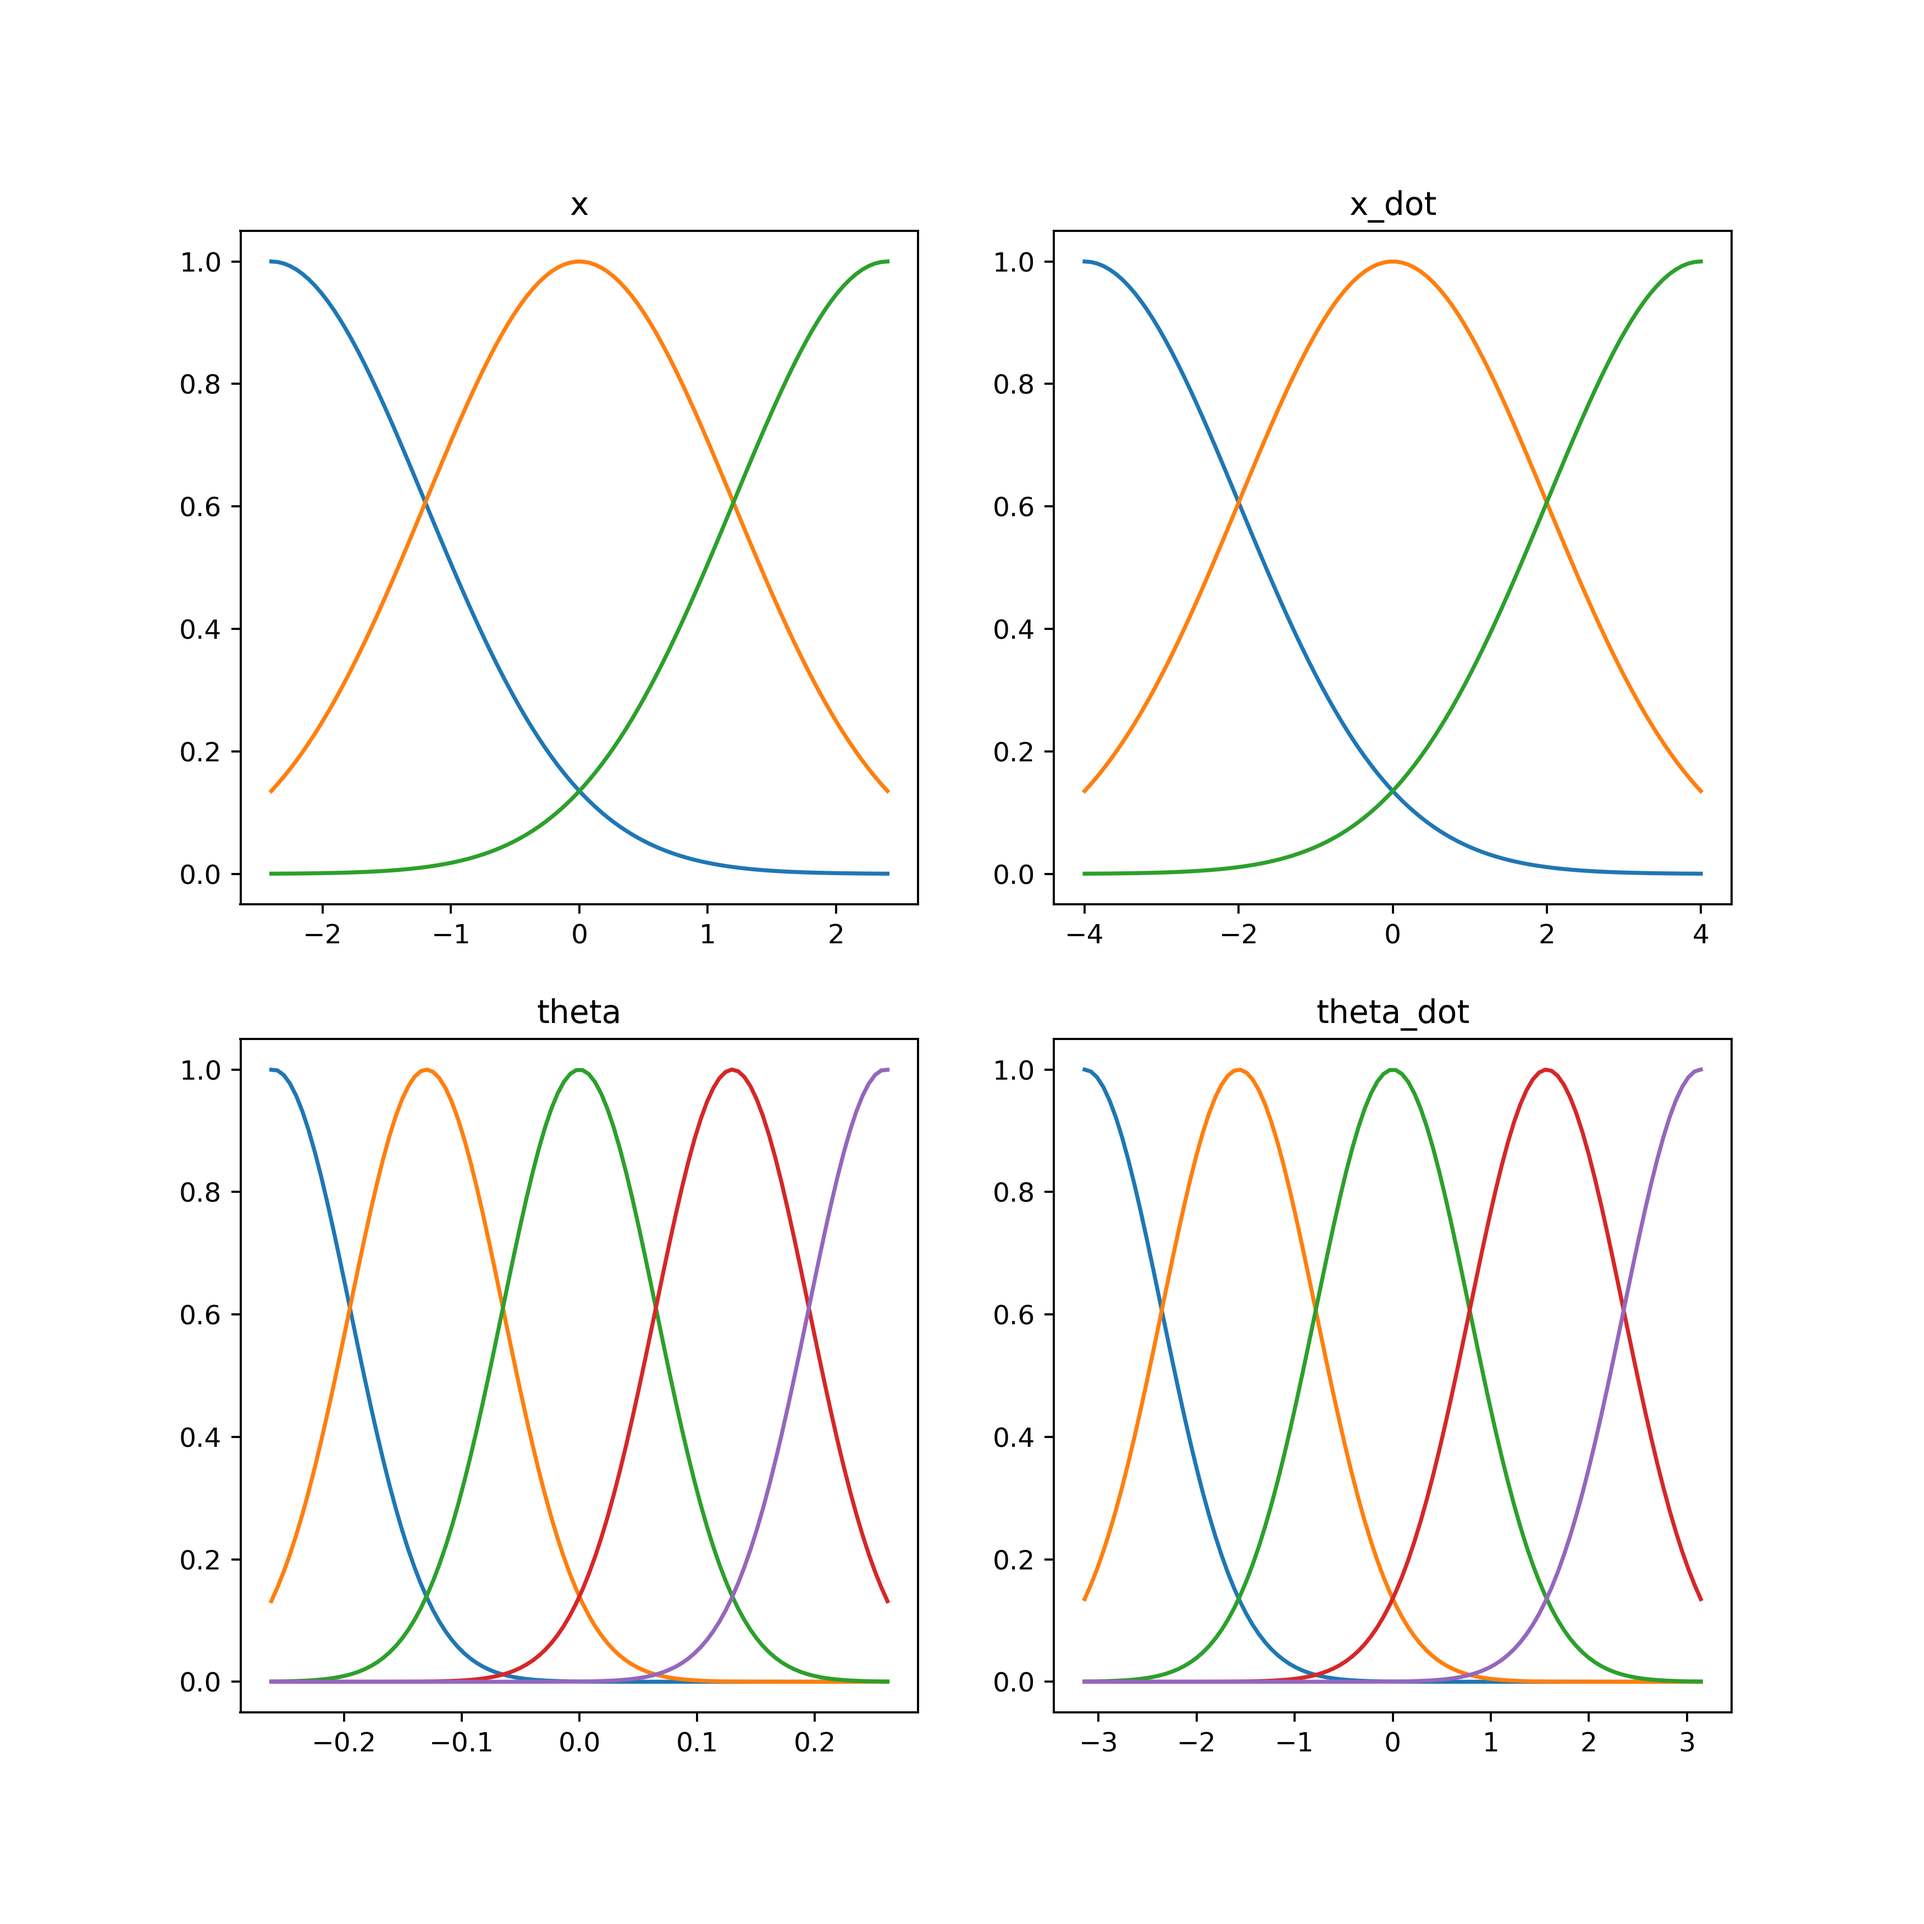
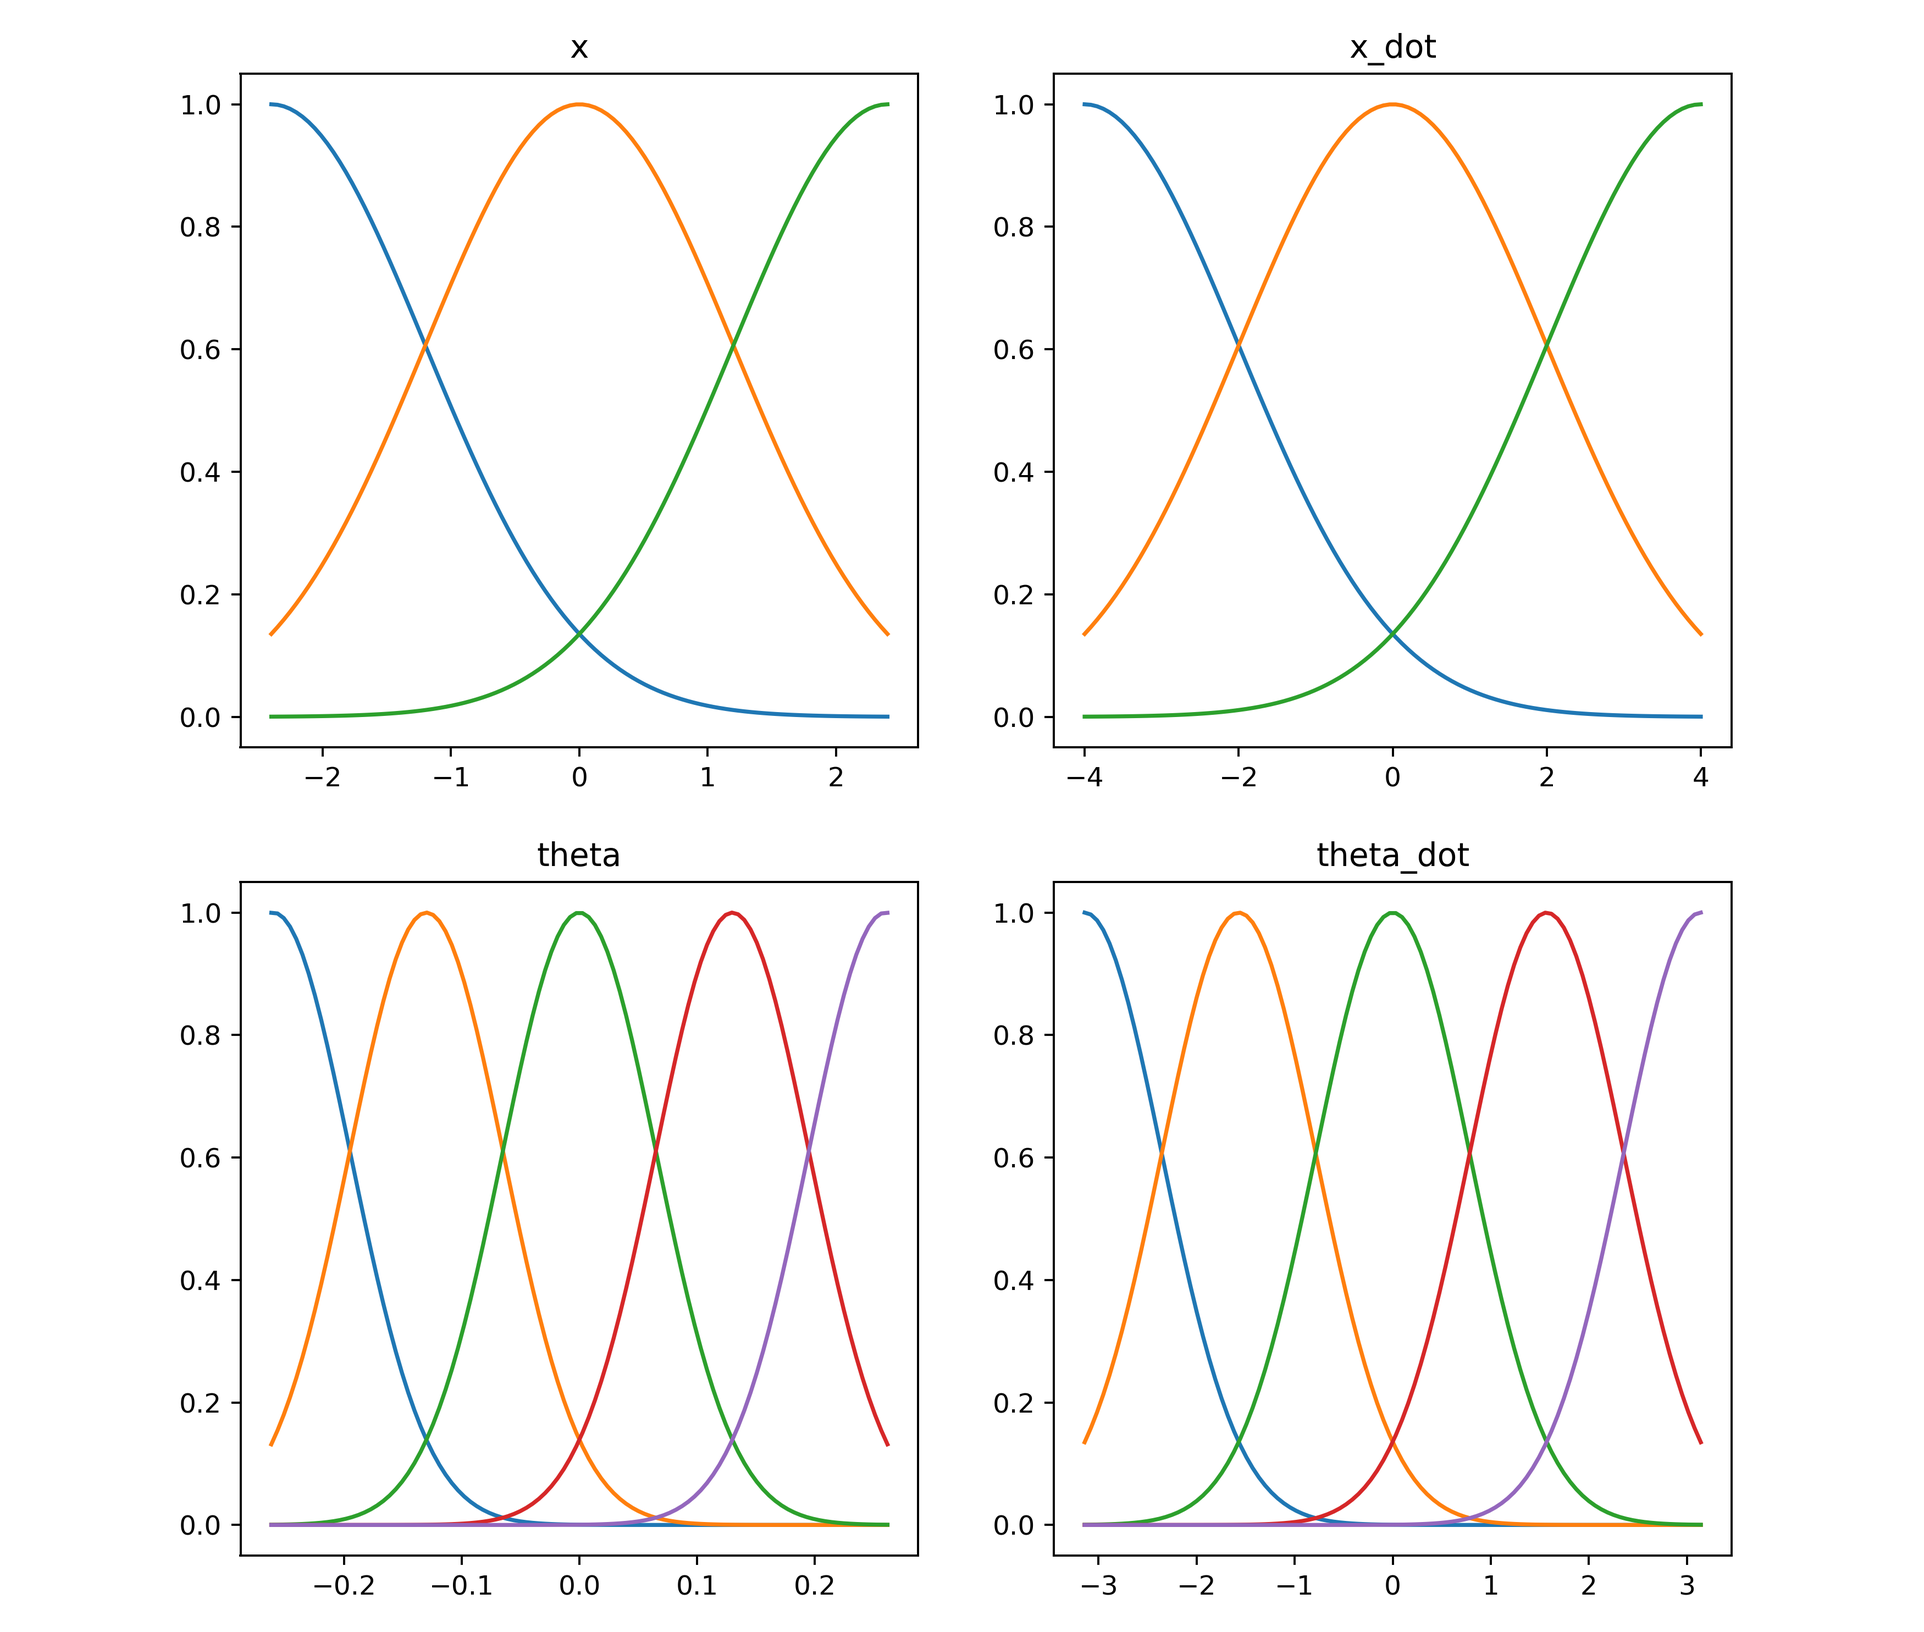
cartpole

diff --git a/_pages/cartpole.md b/_pages/cartpole.md
@@ -215,7 +215,7 @@ RBF parameters:
 
 RBF networks:
 
-<center><img src="/judy_blog/assets/images/rbf.png" width=1000></center>
+<center><img src="/judy_blog/assets/images/rbf.png" width=800></center>
 
 State space to Feature space: (4,) -> (225,)<br>
 Action sapce: (2,)<br>
@@ -239,7 +239,7 @@ Learned optimal Values:
 
 <center><img src="/judy_blog/assets/images/q_op_rbf.png" width=1000></center>
 
-**SARSA(λ)** implementation with 4xRBF networks:
+**SARSA(λ)** implementation:
 
 ```python
 import numpy as np
@@ -402,7 +402,7 @@ for ep in range(n_eps):
         r_sum+=r
 
         if done:
-        	  break
+            break
 
     r_all.append(r_sum)
     stp_all.append(stp)
